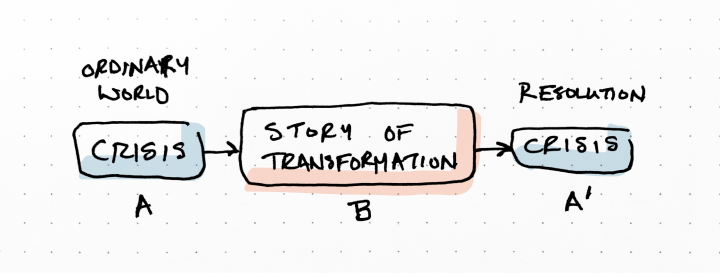
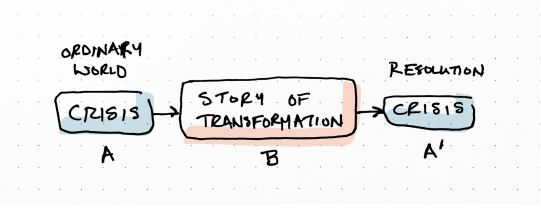
Update images for better mobile support

diff --git a/_posts/2023-01-12-bracketing.md b/_posts/2023-01-12-bracketing.md
@@ -12,7 +12,7 @@ reading_time: 5 min
 
 In a couple of previous notes, We looked at two-unit story structures like [simple comparison and contrast]({% post_url 2022-12-19-comparison-creates-meaning %}) and [Ira Glass' anecdote and reflection]({% post_url 2022-12-07-anecdote-reflection %}). In this note, we'll move on to a three-unit structure, which I call (for lack of a better term) _bracketing_.
 
-<img src="/assets/img/bracketing-0-hero.png" width="540" height="240" alt="Hand-drawn diagram showing a square, a circle, and then another square" class="center shadow" />
+<img src="/assets/img/bracketing-0-hero.png" alt="Hand-drawn diagram showing a square, a circle, and then another square" class="center shadow" />
 
 Bracketing is a basic storytelling structure in which the first and third elements, often a repetition of some sort, sandwich the second element between them. It follows the form: `A` - `B` - `A`.
 
@@ -27,7 +27,7 @@ In modern story, bracketing can perform a similar function, often on the themati
 > "If faced with [a] similar crisis . . . what your character chooses at the beginning hook of your story and what your character chooses at the end of the story should be opposite choices."    
 > &mdash; Shawn Coyne <sup>{% include coyne-2015.html %} Page 185.</sup>
 
-<img src="/assets/img/bracketing-1-crises.png" width="540" height="240" alt="Hand-drawn diagram showing two squares for crises bracketing a rectangle for story in the middle" class="center shadow" />
+<img src="/assets/img/bracketing-1-crises.png" alt="Hand-drawn diagram showing two squares for crises bracketing a rectangle for story in the middle" class="center shadow" />
 
 Brackets can place focus on plot in addition to character. Story theorists Robert McKee and Syd Field both explore, for example, how the [inciting incident]({% post_url 2021-07-23-inciting-incident %}) and story climax together establish a story's _dramatic question_. <sup>{% include mckee-2014.html %} Page 202.</sup> <sup>{% include field-2005.html %} Page 104.</sup> Author and story theorist K. M. Weiland agrees: "think of the Inciting Event as a _question_ that the Climactic Moment must _answer_." <sup>{% include weiland-2020.html %}</sup> (Emphasis mine.)
 
@@ -39,11 +39,11 @@ Bracketing works by exploiting [comparison]({% post_url 2022-12-19-comparison-cr
 
 There are two sets of relationship comparisons in a bracketing arrangement. The first is the comparison between the bracketing elements themselves. What are the ways in which `A` is similar to `A'`? 
 
-<img src="/assets/img/bracketing-2-compare-a.png" width="540" height="240" alt="Hand-drawn diagram showing arrows pointing between two squares which are bracketing a circle in the middle" class="center shadow" />
+<img src="/assets/img/bracketing-2-compare-a.png" alt="Hand-drawn diagram showing arrows pointing between two squares which are bracketing a circle in the middle" class="center shadow" />
 
 The second is the comparison between the bracketing elements and the contents in the middle. In what ways are both `A` and `A'` different from `B`?
 
-<img src="/assets/img/bracketing-3-compare-b.png" width="540" height="240" alt="Hand-drawn diagram showing arrows pointing between two bracketing squares and a circle in the middle" class="center shadow" />
+<img src="/assets/img/bracketing-3-compare-b.png" alt="Hand-drawn diagram showing arrows pointing between two bracketing squares and a circle in the middle" class="center shadow" />
 
 In more complex forms, there can also be important contrasts between the bracketing elements. `A` is different from `A'` _because of_ what happened in `B`.
 
@@ -61,7 +61,7 @@ In Steven Spielberg's 1993 film, _Jurassic Park_, for example the opening and cl
 
 Together, these moments form tight, 1:1 contrasts with each other, establishing a set of brackets that underscore what happened between them, his character transformation.
 
-<img src="/assets/img/bracketing-4-jp.png" width="540" height="240" alt="Hand-drawn diagram with bracketing squares labelled 'character plus image' and a square for story of transformation in the middle" class="center shadow" />
+<img src="/assets/img/bracketing-4-jp.png" alt="Hand-drawn diagram with bracketing squares labelled 'character plus image' and a square for story of transformation in the middle" class="center shadow" />
 
 ## Bracketing at multiple resolutions
 
@@ -73,7 +73,7 @@ Immediately before the bracket, Luke has declined Obi-Wan's invitation to go to 
 
 In this case, the most obvious bracketing comes from location. In both of the bracketing scenes, Luke and Obi-Wan are at the site of the attack on the Jawas. In the middle, Luke goes to his home and discovers that the Empire has killed his family.
 
-<img src="/assets/img/bracketing-5-sw.png" width="540" height="240" alt="Hand-drawn diagram showing bracketing squares labelled 'jawa massacre' and a square for 'uncle's house' in the middle" class="center shadow" />
+<img src="/assets/img/bracketing-5-sw.png" alt="Hand-drawn diagram showing bracketing squares labelled 'jawa massacre' and a square for 'uncle's house' in the middle" class="center shadow" />
 
 If we go back one scene and include the final moments at Obi-Wan's home, we can also discover a larger, slightly more complex, true chiastic structure. This one has to do with the decisions and revelation in the sequence. 
 
